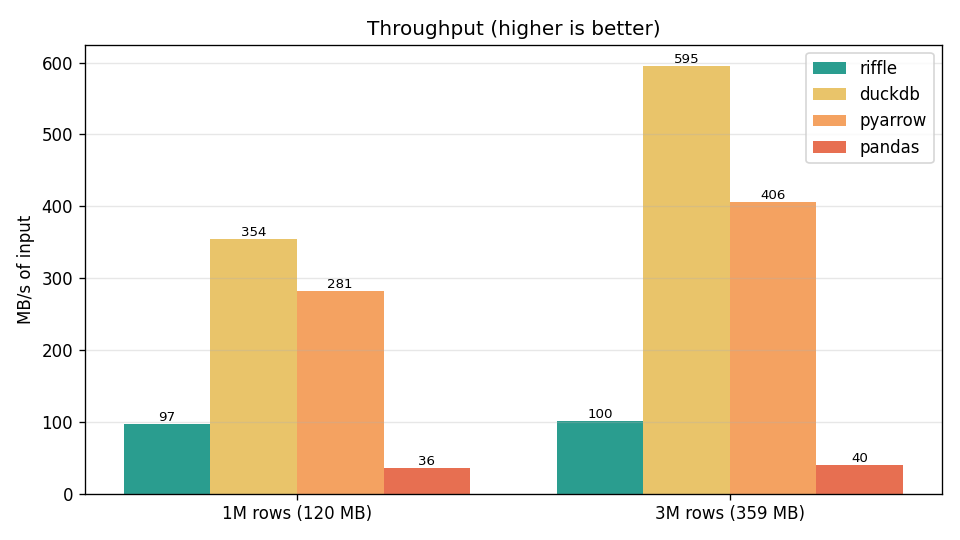
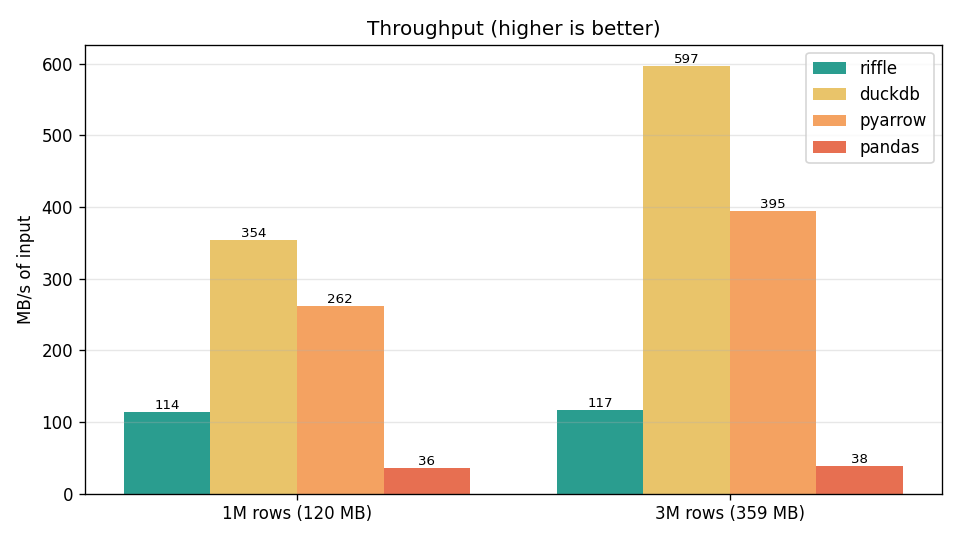
Cut per-row string allocations with string_view cells; v0.1.3 (closes #2)
CellValue now holds std::string_view instead of std::string: the parser hands
out a view into its buffer (no allocation per string field), and the string is
materialized exactly once when stored into a column (previously cell_of plus
to_text allocated twice). Inference also stops allocating for string fields.

Throughput ~107 -> ~115 MB/s on the 1M/3M benchmarks (parse stage 255 -> 219 ms);
output byte-identical (verified via pyarrow). Benchmark numbers, charts and the
README/docs throughput figures refreshed. 97 tests; clang-tidy clean.

Version bumped to 0.1.3.

diff --git a/src/adapters/batch.cpp b/src/adapters/batch.cpp
@@ -40,7 +40,7 @@ std::string to_text(const CellValue& value) {
     if (auto* v = std::get_if<std::int64_t>(&value)) return std::to_string(*v);
     if (auto* v = std::get_if<double>(&value)) return std::to_string(*v);
     if (auto* v = std::get_if<bool>(&value)) return *v ? "true" : "false";
-    if (auto* v = std::get_if<std::string>(&value)) return *v;
+    if (auto* v = std::get_if<std::string_view>(&value)) return std::string(*v);
     return {};
 }
 
@@ -85,10 +85,10 @@ std::expected<void, std::string> push_bool(ColumnBuilder& column, const CellValu
 }
 
 std::expected<void, std::string> push_timestamp(ColumnBuilder& column, const CellValue& value) {
-    auto* text = std::get_if<std::string>(&value);
+    auto* text = std::get_if<std::string_view>(&value);
     if (!text) return std::unexpected("timestamp column got non-string value");
     auto micros = parse_timestamp_us(*text);
-    if (!micros) return std::unexpected("invalid timestamp: " + *text);
+    if (!micros) return std::unexpected("invalid timestamp: " + std::string(*text));
     column.ints.push_back(*micros);
     return {};
 }
@@ -246,7 +246,7 @@ std::expected<void, std::string> ensure_fits(ColumnBuilder& column, const CellVa
 }
 
 std::size_t value_bytes(const CellValue& value) {
-    if (const auto* s = std::get_if<std::string>(&value)) return s->size() + 1;
+    if (const auto* s = std::get_if<std::string_view>(&value)) return s->size() + 1;
     return sizeof(std::int64_t) + 1;
 }
 

diff --git a/tests/adapters/batch_test.cpp b/tests/adapters/batch_test.cpp
@@ -34,8 +34,8 @@ CellValue i64(std::int64_t v) {
 TEST(Batch, BuildsColumnsFromRows) {
     auto builder = make_batch_builder(schema_ab());
     BatchSink sink(builder, TypeConflictPolicy::WIDEN);
-    feed(sink, {{"a", i64(1)}, {"b", CellValue{std::string("x")}}});
-    feed(sink, {{"a", i64(2)}, {"b", CellValue{std::string("y")}}});
+    feed(sink, {{"a", i64(1)}, {"b", CellValue{std::string_view("x")}}});
+    feed(sink, {{"a", i64(2)}, {"b", CellValue{std::string_view("y")}}});
     auto batch = build_batch(builder);
     ASSERT_TRUE(batch.has_value());
     EXPECT_EQ(batch->n_rows, 2u);
@@ -60,7 +60,7 @@ TEST(Batch, TimestampColumnParsesIso) {
     InferredSchema schema{.columns = {{"ts", ColumnType::TIMESTAMP, true, "ts"}}};
     auto builder = make_batch_builder(schema);
     BatchSink sink(builder, TypeConflictPolicy::WIDEN);
-    feed(sink, {{"ts", CellValue{std::string("1970-01-01T00:00:01Z")}}});
+    feed(sink, {{"ts", CellValue{std::string_view("1970-01-01T00:00:01Z")}}});
     auto batch = build_batch(builder);
     ASSERT_TRUE(batch.has_value());
     auto ts = std::static_pointer_cast<arrow::TimestampArray>(batch->data->column(0));
@@ -85,7 +85,7 @@ TEST(Batch, AutoWidensIncompatibleToString) {
     auto builder = make_batch_builder(schema);
     BatchSink sink(builder, TypeConflictPolicy::WIDEN);
     feed(sink, {{"v", i64(7)}});
-    feed(sink, {{"v", CellValue{std::string("hi")}}});
+    feed(sink, {{"v", CellValue{std::string_view("hi")}}});
     auto batch = build_batch(builder);
     ASSERT_TRUE(batch.has_value());
     auto v = std::static_pointer_cast<arrow::StringArray>(batch->data->column(0));

diff --git a/src/adapters/json_parser.cpp b/src/adapters/json_parser.cpp
@@ -32,9 +32,9 @@ CellValue cell_of(od::value value) {
         case od::json_type::null:
             return CellValue{};
         case od::json_type::string:
-            return CellValue{std::string(value.get_string().value())};
+            return CellValue{value.get_string().value()};
         default:
-            return CellValue{std::string(value.raw_json().value())};
+            return CellValue{value.raw_json().value()};
     }
 }
 

diff --git a/tests/adapters/json_parser_test.cpp b/tests/adapters/json_parser_test.cpp
@@ -18,7 +18,7 @@ class RecordSink : public RowSink {
 public:
     void begin_row() override { ++rows; }
     std::expected<void, std::string> field(std::string_view path, CellValue value) override {
-        fields.emplace_back(std::string(path), std::move(value));
+        fields.emplace_back(std::string(path), value);
         return {};
     }
     std::expected<void, std::string> end_row() override { return {}; }
@@ -41,7 +41,7 @@ TEST(JsonParser, ParsesScalarFields) {
     RecordSink sink;
     ASSERT_TRUE(parser.parse(R"({"a":1,"b":"x","c":true})", sink).has_value());
     EXPECT_EQ(std::get<std::int64_t>(*sink.get("a")), 1);
-    EXPECT_EQ(std::get<std::string>(*sink.get("b")), "x");
+    EXPECT_EQ(std::get<std::string_view>(*sink.get("b")), "x");
     EXPECT_EQ(std::get<bool>(*sink.get("c")), true);
 }
 

diff --git a/tests/domain/infer_schema_test.cpp b/tests/domain/infer_schema_test.cpp
@@ -25,8 +25,8 @@ CellValue i64(std::int64_t v) {
 CellValue dbl(double v) {
     return CellValue{v};
 }
-CellValue str(std::string v) {
-    return CellValue{std::move(v)};
+CellValue str(std::string_view v) {
+    return CellValue{v};
 }
 CellValue nul() {
     return CellValue{};

diff --git a/include/riffle/types.hpp b/include/riffle/types.hpp
@@ -13,7 +13,7 @@
 
 namespace riffle {
 
-using CellValue = std::variant<std::monostate, std::int64_t, double, bool, std::string>;
+using CellValue = std::variant<std::monostate, std::int64_t, double, bool, std::string_view>;
 
 enum class ColumnType { INT64, DOUBLE, BOOL, STRING, TIMESTAMP, NULLTYPE };
 

diff --git a/src/domain/schema.cpp b/src/domain/schema.cpp
@@ -16,7 +16,7 @@ namespace {
 
 ColumnType infer_type(const CellValue& value) {
     auto type = column_type_of(value);
-    if (type == ColumnType::STRING && looks_like_timestamp(std::get<std::string>(value))) {
+    if (type == ColumnType::STRING && looks_like_timestamp(std::get<std::string_view>(value))) {
         return ColumnType::TIMESTAMP;
     }
     return type;

diff --git a/src/domain/version.cpp b/src/domain/version.cpp
@@ -3,7 +3,7 @@
 namespace riffle {
 
 std::string_view version() {
-    return "0.1.2";
+    return "0.1.3";
 }
 
 }

diff --git a/tests/domain/version_test.cpp b/tests/domain/version_test.cpp
@@ -3,5 +3,5 @@
 #include <gtest/gtest.h>
 
 TEST(Version, ReturnsProjectVersion) {
-    EXPECT_EQ(riffle::version(), "0.1.2");
+    EXPECT_EQ(riffle::version(), "0.1.3");
 }

diff --git a/README.md b/README.md
@@ -17,7 +17,7 @@ between "grep the log by hand" and "spin up Spark/pandas/DuckDB for one conversi
   size of the input, not the size of the file. This is the headline feature: convert files
   **larger than RAM**.
 - **Fast single-core** — SIMD JSON parsing ([simdjson](https://github.com/simdjson/simdjson))
-  on-demand and batched columnar appends sustain **~100 MB/s** of input on one core.
+  on-demand and batched columnar appends sustain **~115 MB/s** of input on one core.
 - **Zero-config** — the column schema is **inferred** from the data, with an optional explicit
   `--schema` override when inference guesses wrong.
 - **One static binary** — no Python/JVM runtime. Drops cleanly into pipelines and containers.
@@ -69,11 +69,11 @@ That flat line is why Riffle converts files **larger than RAM** on a laptop wher
 
 ![Throughput comparison](docs/img/bench_throughput.png)
 
-Riffle is **not** the throughput leader. DuckDB (~350–595 MB/s) and PyArrow (~280–405 MB/s) are
-faster; Riffle sustains **~100 MB/s**, ahead of pandas (~40 MB/s). Parsing uses the simdjson
-**on-demand** API, fields are written **straight into column builders** (no intermediate row
-object, no per-field path allocation), and Arrow appends are **batched** per column. The
-remaining cost is Arrow array construction and per-line reading; compression codec barely moves it.
+Riffle is **not** the throughput leader. DuckDB (~355–595 MB/s) and PyArrow (~260–395 MB/s) are
+faster; Riffle sustains **~115 MB/s**, ahead of pandas (~35 MB/s). Parsing uses the simdjson
+**on-demand** API with `string_view`-backed cells (no per-field allocation), fields are written
+**straight into column builders**, and Arrow appends are **batched** per column. The remaining
+cost is Arrow array construction and string materialization; compression codec barely moves it.
 
 ### Where Riffle wins / where it doesn't
 
@@ -81,7 +81,7 @@ remaining cost is Arrow array construction and per-line reading; compression cod
 | ---------------------------------- | --------------------- | ------ | ------- | ------ |
 | Peak memory, flat with input size  | ✅ ~80 MB, constant    | ⚠️ grows | ❌ grows | ❌ huge |
 | Converts files larger than RAM     | ✅                     | ⚠️      | ❌       | ❌      |
-| Raw throughput                     | ⚠️ ~80 MB/s            | ✅      | ✅       | ❌      |
+| Raw throughput                     | ⚠️ ~115 MB/s           | ✅      | ✅       | ❌      |
 | Single static binary, no runtime   | ✅                     | ❌ (lib) | ❌ (lib) | ❌ (lib) |
 
 **Bottom line:** if you need raw speed on data that fits in memory, DuckDB is excellent. If you

diff --git a/docs/riffle.md b/docs/riffle.md
@@ -122,7 +122,7 @@ python -c "import pyarrow.parquet as pq; print(pq.read_table('sample.parquet').t
 
 | ID    | Требование              | Содержание                                                                                          |
 | ----- | ----------------------- | --------------------------------------------------------------------------------------------------- |
-| `R1`  | Пропускная способность  | Высокая на одном ядре за счёт SIMD-парсинга и батчей. Замеренная цель — порядок **100 МБ/с** входа end-to-end (см. бенчмарки в README); это конвертация со сжатием, а не сырой парсинг |
+| `R1`  | Пропускная способность  | Высокая на одном ядре за счёт SIMD-парсинга и батчей. Замерено — порядок **~115 МБ/с** входа end-to-end (см. бенчмарки в README); это конвертация со сжатием, а не сырой парсинг |
 | `R2`  | Постоянная память       | Потребление RAM **O(1) от размера входа**: ограничено сэмплом инференса и одним батчем, не размером файла |
 | `R3`  | Потоковость             | Однопроходная обработка; данные не материализуются целиком — читаются и пишутся скользящим окном    |
 | `R4`  | Устойчивость к битым данным | Битая/невалидная строка не роняет процесс при `on_error ≠ abort`; учитывается в `ConvertStats`  |
@@ -230,10 +230,14 @@ enum class PipelineState { INIT, INFER_SCHEMA, CONVERT, FLUSH, FINALIZE, DONE, A
 
 ### CellValue
 
-Одно JSON-скалярное значение; `std::monostate` означает null/отсутствие.
+Одно JSON-скалярное значение; `std::monostate` означает null/отсутствие. Строки хранятся как
+**`std::string_view`** в буфер парсера — без аллокации на горячем пути. View действителен
+только во время вызова `RowSink::field()`; sink обязан скопировать строку в долговременное
+хранилище немедленно (что и делают `InferenceSink`/`BatchSink`). Поэтому конструировать
+`CellValue` со `string_view` из временной строки нельзя — только из живого буфера/литерала.
 
 ```cpp
-using CellValue = std::variant<std::monostate, std::int64_t, double, bool, std::string>;
+using CellValue = std::variant<std::monostate, std::int64_t, double, bool, std::string_view>;
 ColumnType column_type_of(const CellValue& value);  // monostate → NULLTYPE
 ```
 